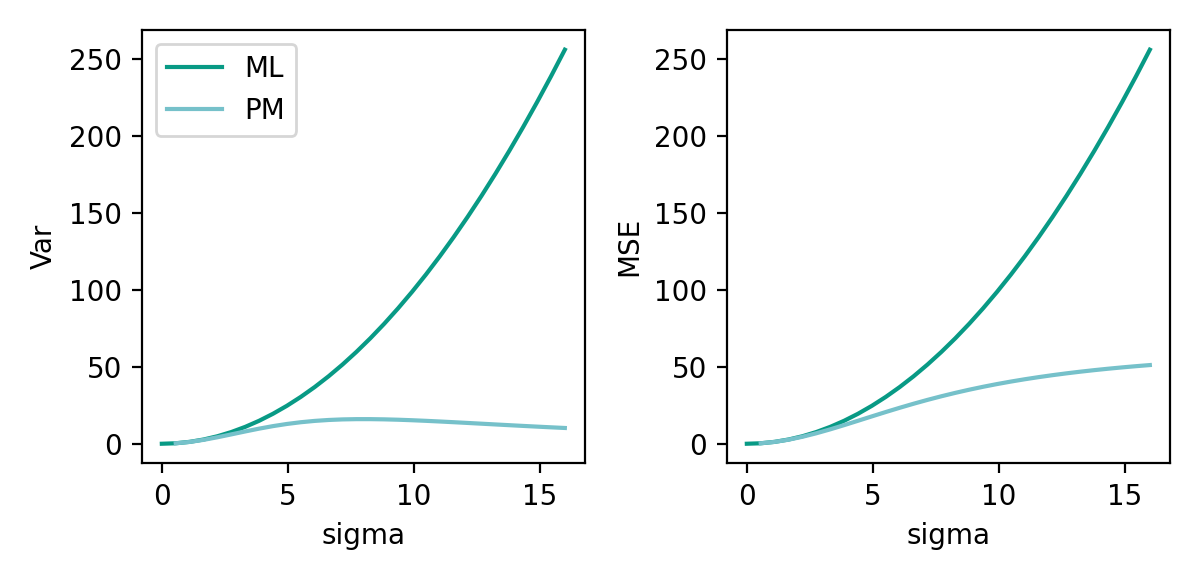
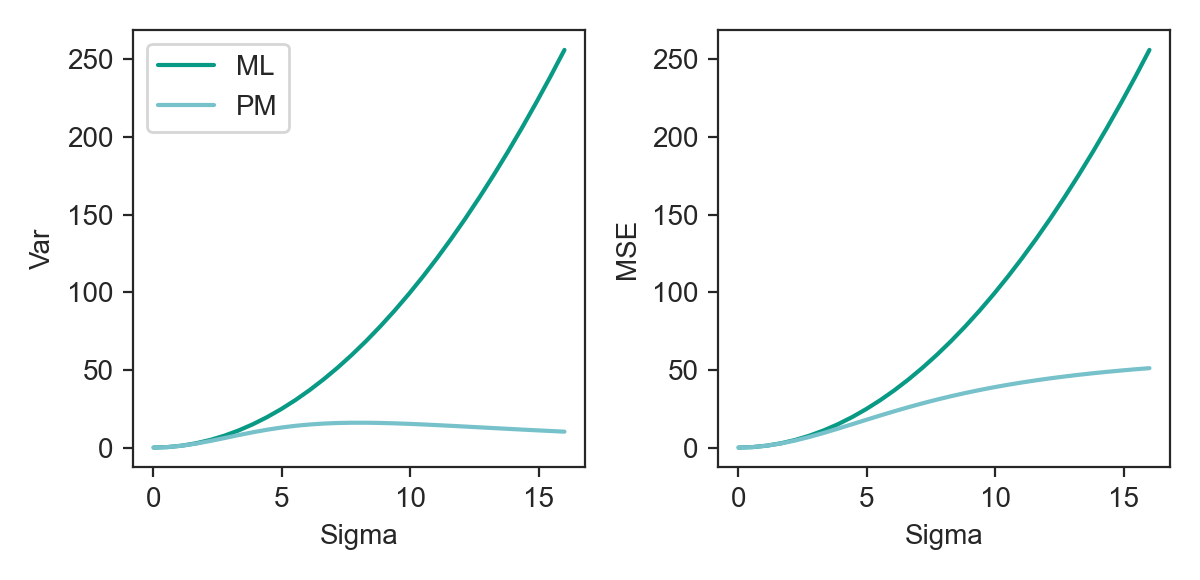
change font

diff --git a/chapter4/chapter4.py b/chapter4/chapter4.py
@@ -31,17 +31,20 @@ class viz:
     lw, mz  = 2.5, 6.5
 
     @staticmethod
-    def get_style(): sns.set_style("ticks", {'axes.grid': False})
-
+    def get_style(): 
+        sns.set_style("ticks", {'axes.grid': False})
+        
+viz.get_style()
 #-------------------------------------
 #            Section 4.5 
 #-------------------------------------
 
 # closed-form solution of var and bias 
+eps_ = 1e-12 # avoid divde by 0 
 Var_ML   = lambda J, J_s: 1 / J  
 Bias2_ML = lambda J, J_s, mu, s: 0 
-Var_PM   = lambda J, J_s: J / (J+J_s)**2
-Bias2_PM = lambda J, J_s, mu, s: (J_s**2*(mu - s)**2) / (J+J_s)**2
+Var_PM   = lambda J, J_s: J / ((J+J_s)**2+eps_)
+Bias2_PM = lambda J, J_s, mu, s: (J_s**2*(mu - s)**2) / ((J+J_s)**2+eps_)
 
 def Fig4_1(param_Prior=(0, 8), seed=1234):
 
@@ -51,8 +54,8 @@ def Fig4_1(param_Prior=(0, 8), seed=1234):
     # get distribution parameters
     kws       = ['ML', 'PM'] 
     mu, sig_s = param_Prior
-    J_s       = 1/sig_s**2
-    sig_lst   = np.linspace(0, 16, 30)
+    J_s       = 1/(sig_s**2+eps_)
+    sig_lst   = np.linspace(.01, 16, 30)
     s_lst     = np.linspace(-30, 30, 50)
     f_S       = norm(mu, sig_s).pdf(s_lst)
     p_S       = f_S / f_S.sum()
@@ -74,13 +77,13 @@ def Fig4_1(param_Prior=(0, 8), seed=1234):
     ax = axs[0]
     for i in range(len(kws)):
         sns.lineplot(x=sig_lst, y=var_data[i, :], color=viz.Greens[i], ax=ax)
-    ax.set_xlabel('sigma')
+    ax.set_xlabel('Sigma')
     ax.set_ylabel('Var')
     ax.legend(kws)
     ax = axs[1]
     for i in range(len(kws)):
         sns.lineplot(x=sig_lst, y=mse_data[i, :], color=viz.Greens[i], ax=ax)
-    ax.set_xlabel('sigma')
+    ax.set_xlabel('Sigma')
     ax.set_ylabel('MSE')
     fig.tight_layout()
     plt.savefig(f'{path}/Fig_4_1.png', dpi=viz.dpi)
@@ -192,6 +195,6 @@ def Fig4_3(param_Prior=(0, 8), param_Like=4,
 if __name__ == '__main__':
 
     Fig4_1()
-    #Fig4_3(param_Like=(4), n_samples=1000000)
+    Fig4_3(param_Like=(4), n_samples=1000000)
         
 
